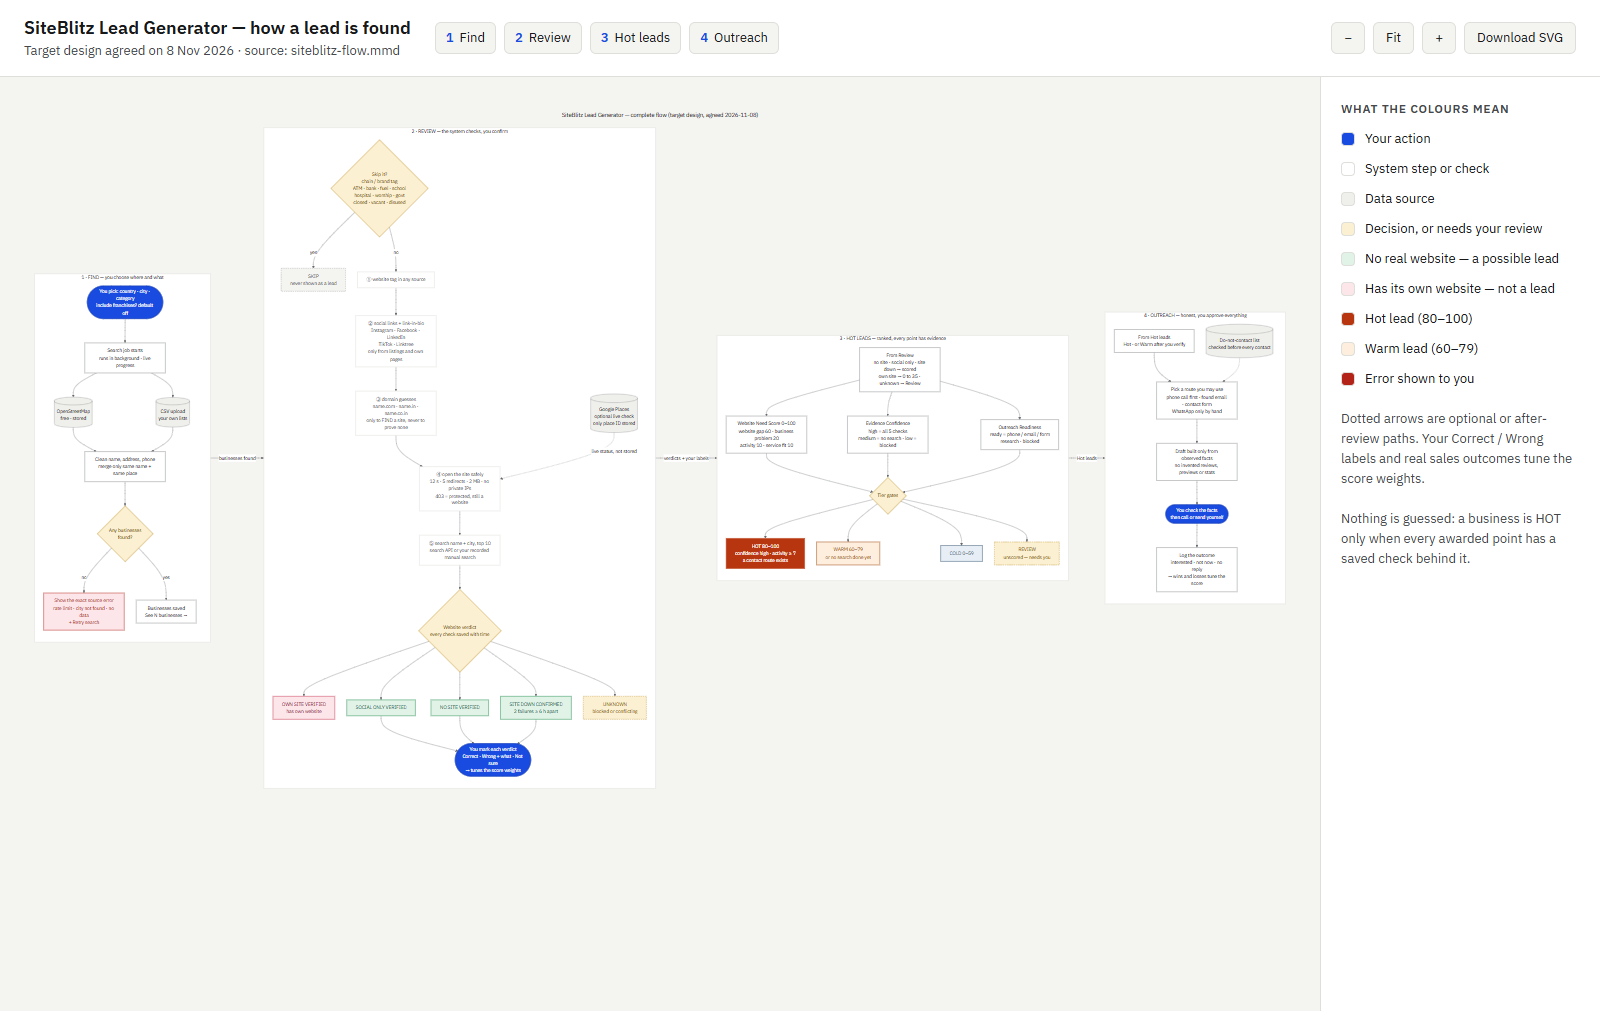
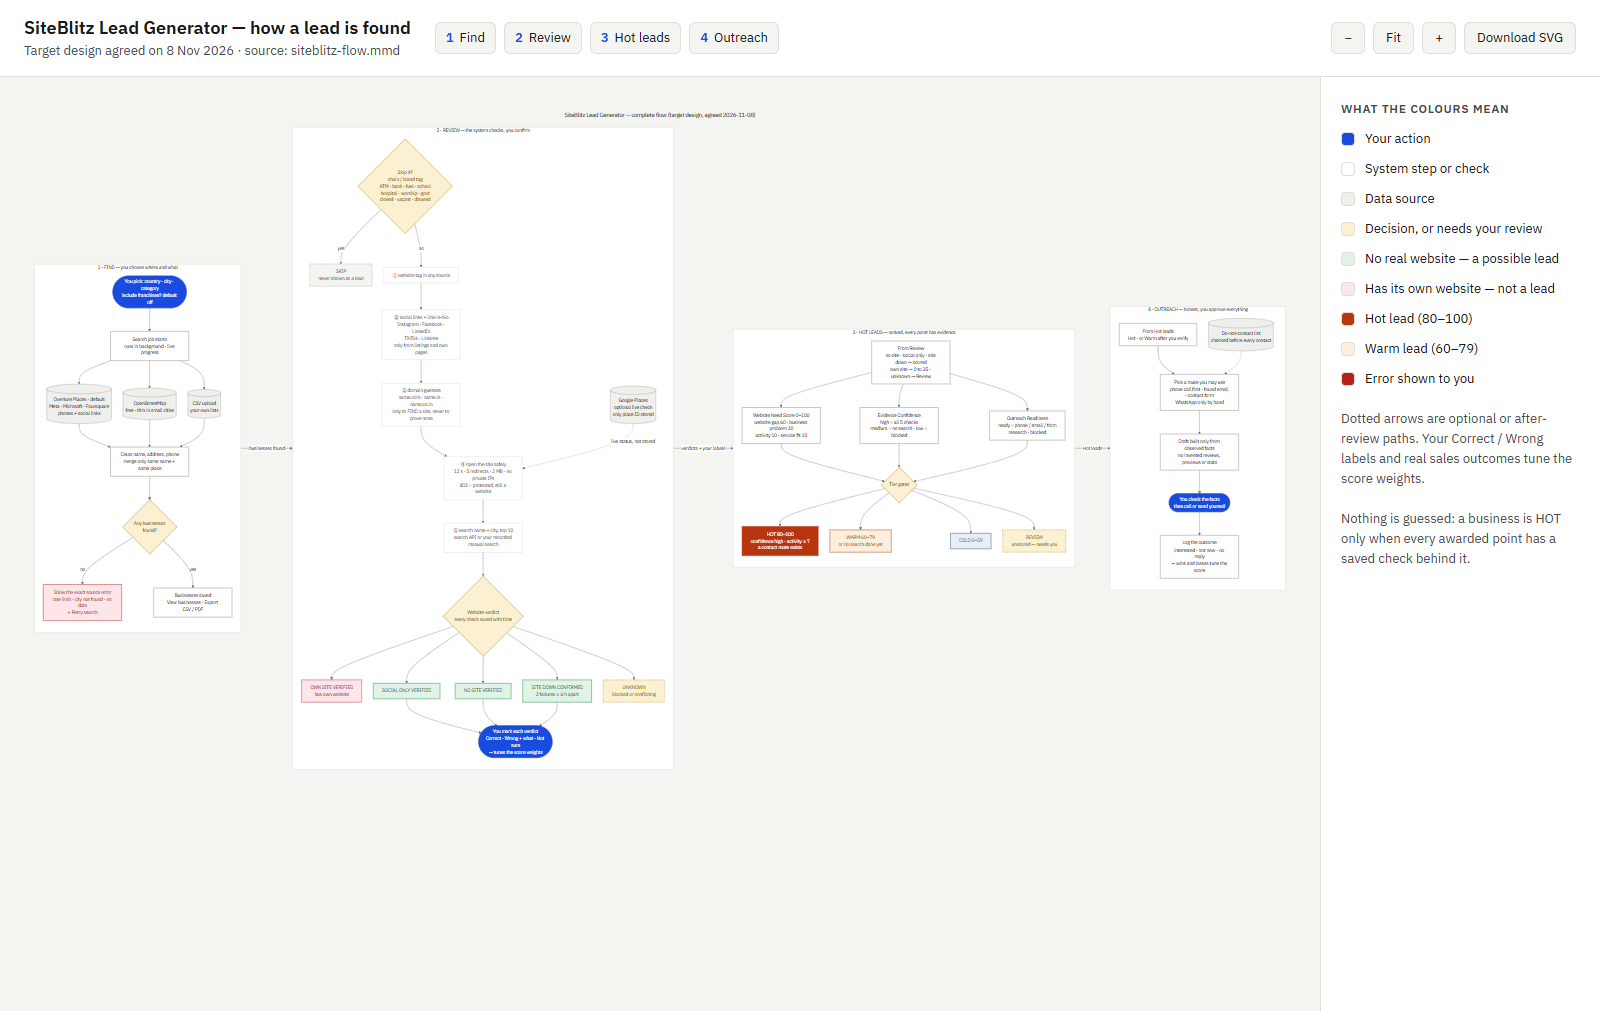
docs: user guide (order of steps, job terms, why 29, exports), flow with Overture + export, phase board, decisions, handoff

diff --git a/docs/flow/index.html b/docs/flow/index.html
@@ -128,15 +128,16 @@ flowchart LR
     direction TB
     F1(["You pick: country · city · category<br/>include franchises? default off"]):::step
     F2["Search job starts<br/>runs in background · live progress"]:::proc
-    SRC_OSM[("OpenStreetMap<br/>free · stored")]:::source
+    SRC_OV[("Overture Places · default<br/>Meta · Microsoft · Foursquare<br/>phones + social links")]:::source
+    SRC_OSM[("OpenStreetMap<br/>free · thin in small cities")]:::source
     SRC_CSV[("CSV upload<br/>your own lists")]:::source
     F3["Clean name, address, phone<br/>merge only same name + same place"]:::proc
     F4{"Any businesses<br/>found?"}:::decision
     F5["Show the exact source error<br/>rate limit · city not found · no data<br/>+ Retry search"]:::error
-    F6["Businesses saved<br/>See N businesses →"]:::proc
+    F6["Businesses saved<br/>View businesses · Export CSV / PDF"]:::proc
     F1 --> F2
-    F2 --> SRC_OSM & SRC_CSV
-    SRC_OSM & SRC_CSV --> F3 --> F4
+    F2 --> SRC_OV & SRC_OSM & SRC_CSV
+    SRC_OV & SRC_OSM & SRC_CSV --> F3 --> F4
     F4 -- "no" --> F5
     F4 -- "yes" --> F6
   end

diff --git a/docs/HANDOFF.md b/docs/HANDOFF.md
@@ -1,53 +1,50 @@
-# HANDOFF — SiteBlitz Lead Generator — Phase 1 (pipeline repair) + audit
+# HANDOFF — SiteBlitz Lead Generator — Phases 1, 1b–1e
 
-Session date: 2026-11-08 · Branch: `phase-01-pipeline-repair` (from `main` @ 2705aca)
+Session date: 2026-11-08 · Branch: `phase-01-pipeline-repair` (from `main` @ 2705aca) · **not pushed**
 
-## Done
-- Full audit of every file, verified by running the code: `docs/AUDIT-2026-11-08.md`.
-- ChatGPT review round (2 rounds, all agenda points agreed/rejected):
-  `docs/debate/2026-11-08-lead-generator-audit-website-need-logic-ui-flow/RESULT.md`.
-- Phase 1 fixes, all acceptance boxes in `docs/spec/phase-01-pipeline-repair.md` verified:
-  - `pip install -e ".[dev]"` exits 0 in a fresh venv; app imports.
-  - Live OSM discovery works again (Pune restaurants 20 new, Hyderabad dentists 16 new,
-    Munich cafes 20 new; through the old UI: Nagpur dentists 36 new, card = API numbers).
-  - CSV: each file imports its own rows; re-import = duplicates.
-  - Qualify (was HTTP 500) and Enroll (would crash) work; enrol twice = 0 the second time.
-  - `GET /api/v1/qualification/unsubscribe` works (was 405).
-  - 138/138 tests pass (136 old + 2 new real-API integration tests).
-- Complete target flow diagram: `docs/flow/siteblitz-flow.mmd` (+ viewer `docs/flow/index.html`).
-- Spec drafts waiting for approval: `docs/spec/website-intelligence.md` (phase 2),
-  `docs/spec/ui-redesign.md` (phase 4).
+## Done (all verified, 185/185 tests)
+- Phase 1 — pipeline repair (install, OSM city search, CSV ids, async crashes, unsubscribe GET).
+- Phase 1b — **Overture Places** source: Udaipur cafés 29 (OSM) → 246 found / 225 new (live, via UI).
+  Location-aware dedup (no more merging same-name shops in different cities). Job cards show the
+  source's error reason and a definitions box.
+- Phase 1c — every request body, query param and CSV upload validated + sanitized (422/400, never 500);
+  `adapter_class` allow-list (blocked arbitrary module import); CSV imports keep up to 5,000 rows
+  (stopped silently at 500); short CSV rows no longer rejected.
+- Phase 1d — SSRF guard on all server-side website fetches incl. redirect hops.
+- Phase 1e — Export CSV / PDF (Businesses header + every job card), "View businesses" per job.
+- Docs: `docs/AUDIT-2026-11-08.md`, `docs/USER-GUIDE.md` (order of steps, every term, why 29, exports),
+  flow `docs/flow/siteblitz-flow.mmd` + viewer `docs/flow/index.html`, ChatGPT review `docs/debate/…/RESULT.md`.
 
-## Files changed
-- `pyproject.toml` — valid build backend; dnspython + aiosqlite core deps; package discovery limited to `backend*`.
-- `backend/app/engines/discovery/osm.py` — User-Agent; city = admin relation inside country → area; QL escaping.
-- `backend/app/engines/discovery/csv_import.py` — external id = hash of identity fields.
-- `backend/app/services/qualification_service.py` — eager-load locations/categories.
-- `backend/app/services/campaign_service.py` — eager-load contact/business; skip already-enrolled leads.
-- `backend/app/api/v1/qualification.py` — GET unsubscribe.
-- `frontend/src/pages/DiscoveryPage.jsx` — result card reads `new/duplicate/errors`.
-- `backend/tests/test_integration/test_pipeline_api.py` — new end-to-end API tests.
+## Files changed (since main)
+- Backend: `pyproject.toml`, `config.py`, `main.py`, `engines/discovery/{osm,overture,csv_import,registry}.py`,
+  `engines/opportunity/resolver.py`, `engines/enrichment/discovery.py`, `services/{discovery,qualification,campaign,export}_service.py`,
+  `schemas/{types,business,source,campaign,qualification,opportunity,contact}.py`, `api/v1/{businesses,discovery,sources,contacts,opportunities,qualification}.py`.
+- Frontend: `services/api.js`, `pages/{DiscoveryPage,BusinessesPage}.jsx`.
+- Tests: `tests/test_integration/test_pipeline_api.py`, `tests/test_discovery/test_overture.py`, `tests/test_opportunity/test_ssrf_guard.py`.
 
 ## Decisions made this session
-- See `docs/DECISIONS.md` (2026-11-08 block).
+- See `docs/DECISIONS.md` (two 2026-11-08 blocks).
 
 ## Known broken / deliberately skipped
-- Website-need logic still the old one (false HOT leads) — phase 2, waits for `go` on its spec.
-- Fabricated `info@domain` contacts, fake pitch claims, fake sender, fake SENT — phase 5.
-- Discovery still runs inside the HTTP request; Overpass public endpoint sometimes rate-limits
-  (job #2 in today's screenshots = PARTIAL, 1 error) — phase 3 adds retries/background jobs.
-- UI not redesigned yet — phase 4, waits for `go` on `docs/spec/ui-redesign.md`.
-- **Branch NOT pushed.** `git push -u origin phase-01-pipeline-repair` was blocked by the Claude OS guard hook
-  (its own check `git log … --not --remotes=origin` failed). Run the push yourself, then open a PR into `main`
-  on https://github.com/Dev-Nurul08/Siteblitz_LeadGenerator.
-- Debate driver files (`SESSION.md`, `tab.json`, `shots/`, `stop-awake`) are left untracked on purpose
-  (ChatGPT account screenshots and driver state).
+- **UI not redesigned.** Revised award-level, motion-led spec waits for `go`: `docs/spec/ui-redesign.md`.
+- Website-need logic is still the old one (false HOT leads) — phase 2, waits for `go` on `docs/spec/website-intelligence.md`.
+- Fabricated `info@` contacts / pitch claims / fake SENT — phase 5.
+- **The API has no authentication**; `docker-compose.yml` publishes port 8000 on all interfaces. Keep it on
+  127.0.0.1 until an auth phase exists.
+- Discovery still runs inside the HTTP request (Overture ≈ 20 s, OSM up to 90 s) — phase 3.
+- Overture release folder is pinned (`OVERTURE_RELEASE=2026-10-21.0`); when Overture deletes it, reads fail
+  with a message telling you to update it.
+- `npx oxlint` cannot run on this PC (native binding missing); `npm run build` passes.
+- Screenshots with real business contacts (`docs/screenshots/phase-1b/`) and debate driver files are untracked on purpose.
+- **Push blocked earlier by the Claude OS guard hook** — run `git push -u origin phase-01-pipeline-repair` yourself,
+  then open a PR into `main` on https://github.com/Dev-Nurul08/Siteblitz_LeadGenerator.
 
 ## Next session starts here
-- Phase 2: Website Intelligence Engine, exactly as `docs/spec/website-intelligence.md` (after `go`).
+- Phase 4b (UI-1: tokens + shell + Find with the live map) after `go` on `docs/spec/ui-redesign.md`,
+  or Phase 2 after `go` on `docs/spec/website-intelligence.md`.
 - First commands (PowerShell, repo root):
-  `python -m venv .venv` · `.venv\Scripts\python -m pip install -e ".[dev]"` ·
-  (this PC only, Smart App Control) `$env:DISABLE_SQLALCHEMY_CEXT="1"; .venv\Scripts\python -m pip install --force-reinstall --no-deps --no-binary sqlalchemy sqlalchemy` ·
-  `.venv\Scripts\python -m pytest -q`
-- Run locally without Postgres: `$env:DATABASE_URL="sqlite+aiosqlite:///./dev.db"; .venv\Scripts\python -m uvicorn backend.app.main:app --port 8000`, then `cd frontend; npm install; npm run dev` → http://localhost:5173
-- Watch out for: Overpass rate limits when running several searches back to back (wait ~60 s).
+  `.venv\Scripts\python -m pip install -e ".[dev]"` ·
+  (this PC only) `$env:DISABLE_SQLALCHEMY_CEXT="1"; .venv\Scripts\python -m pip install --force-reinstall --no-deps --no-binary sqlalchemy sqlalchemy` ·
+  `.venv\Scripts\python -m pytest -q` (expect 185 passed)
+- Run: see `docs/USER-GUIDE.md` §0.
+- Watch out for: Overpass and Nominatim rate limits when running many searches back to back.

diff --git a/docs/USER-GUIDE.md b/docs/USER-GUIDE.md
@@ -1,0 +1,75 @@
+# SiteBlitz Lead Generator — how to use it (current version, 2026-11-08)
+
+Written for: the founder / sales operator. This describes the app **as it works today** (old
+screens, repaired backend). The redesigned 4-step screens are specified in `docs/spec/ui-redesign.md`.
+
+## 0. Start it
+```powershell
+# backend (repo root)
+$env:DATABASE_URL = "sqlite+aiosqlite:///./dev.db"
+.venv\Scripts\python -m uvicorn backend.app.main:app --port 8000
+# frontend (second terminal)
+cd frontend; npm run dev        # open http://localhost:5173
+```
+
+## 1. The order to work in
+| Step | Screen (sidebar) | What you do | What you get |
+|---|---|---|---|
+| 1 | **Run Discovery** | Pick a source (use **Overture Places**), country, city, category, max results → Start | A *job* with Found / New / Dup / Errors |
+| 2 | Run Discovery → job card → **View businesses** | Look at what that job found | The Businesses list filtered to that job |
+| 3 | **Businesses** → **Export CSV / Export PDF** | Download what the filters show (or use the job card buttons) | `siteblitz-businesses-job9-….csv/.pdf` |
+| 4 | **Businesses** → click a row → Run audit (or **Opportunities** → batch) | Website check of each business | Website status + opportunities ⚠ see note |
+| 5 | **Contacts** | Find email contacts | ⚠ see note |
+| 6 | **Compliance & Leads** | Qualify | Lead score + draft pitch ⚠ see note |
+| 7 | **Campaigns & CRM** | Enrol, "dispatch" | ⚠ nothing is really sent |
+
+⚠ Steps 4–7 still run the **old logic** that the audit found unreliable (any business without a
+website field becomes "CRITICAL", invented `info@` contacts, fabricated pitch claims, simulated
+sending). They are rebuilt in phases 2 and 5 (`docs/PHASES.md`). Until then, use steps 1–3 to get
+lists, and judge websites yourself.
+
+## 2. What every word on a discovery job means
+| Word | Meaning |
+|---|---|
+| **Job** | One search: one source, one city/area, one category. Each click on Start = one job. |
+| **Found** | Businesses the source returned for that search. |
+| **New** | Saved for the first time. These are added to Businesses. |
+| **Dup** (duplicate) | Already saved before — the same source record, or the same name in the same city / within 5 km (from any source). Not added again, but linked to the job, so "View businesses" still shows them. |
+| **Errors** | Problems the source reported (rate limit, city not found, area too large…). The reason is shown in red on the job. |
+| **Completed** | Finished with no errors. |
+| **Partial** | Finished, but the source reported an error (often 0 results + the reason). |
+| **Failed** | The job crashed; the error text is on the card. |
+
+Website status (Businesses list):
+| Value | Meaning |
+|---|---|
+| `UNKNOWN` | No website link in the source data yet — **not** proof that there is no website. |
+| `SOCIAL_ONLY` | Only social links (Facebook / Instagram / WhatsApp / Linktree …) were found. |
+| `FOUND` | A website link exists (not yet checked). After an audit it may become `BROKEN` / `UNDER_CONSTRUCTION`. |
+| `NOT_FOUND` | Audit could not find the site (404/410). |
+
+## 3. Which source to use
+| Source | Use for | Data you get | Limits |
+|---|---|---|---|
+| **Overture Places** (default) | Any city | name, address, phone (83 % of places in the Udaipur test), website, Facebook/Instagram links, email sometimes | Needs a city name or coordinates; ~20 s per search; data from Meta/Microsoft/Foursquare, some categories are noisy |
+| OpenStreetMap | Cross-check, free map data | name, address, few phones (3.8 % in Udaipur) | Volunteer-mapped: small cities have few businesses |
+| CSV import | Your own lists | whatever columns you have (name required) | UTF-8 CSV, max 15 MB / 5,000 rows per file |
+
+## 4. Why OpenStreetMap gave "29" (analysis 2026-11-08)
+Your job #8 searched **cafe** in **Udaipur** on OpenStreetMap and returned 29. A direct check of the
+OpenStreetMap database shows that is *all* it has: 35 `amenity=cafe` objects in every area named
+Udaipur, 29 of them with a name (unnamed ones are skipped). Nothing was lost by the tool. The same
+search on Overture Places finds **246** cafés (job #9: 225 new + 21 already known); Overture has
+14,807 places in Udaipur, 12,919 with a social link and 7,718 with a social link but **no website**.
+Other things fixed on the way: same-name shops in different cities were merged into one; CSV
+imports stopped silently at 500 rows; CSV rows with missing trailing columns were rejected.
+
+## 5. Exports
+- CSV: every column (id, name, category, industry, address, city, state, postal code, country,
+  phone, email, website, website status, facebook, instagram, linkedin, tiktok, youtube, twitter,
+  whatsapp, linktree, latitude, longitude, status, discovered at). Opens in Excel with Indian
+  characters intact. Cells that start with `= + - @` get a leading `'` so Excel cannot run them as
+  formulas (phone numbers therefore show as text — correct).
+- PDF: landscape A4 summary (name, category, city, phone, email, website/social, status).
+- The export always matches the current filters (country, website status, category, search, job).
+- Exported files contain businesses' contact data — keep them private.

diff --git a/docs/PHASES.md b/docs/PHASES.md
@@ -5,7 +5,11 @@ Legend: ✅ done · 🔨 in progress · ⛔ blocked · ⬜ not started · 🔒 w
 | # | Phase | Status | Owner session | Depends on | Demo criterion |
 |---|-------|--------|---------------|------------|----------------|
 | 1 | Pipeline repair (install, OSM city search, CSV ids, async crashes, unsubscribe GET) | ✅ | 2026-11-08 audit session | — | `docs/spec/phase-01-pipeline-repair.md` all boxes; 138/138 tests; live Pune/Hyderabad/Munich discovery returns businesses |
-| 2 | Website Intelligence Engine (verdicts, evidence table, SKIP rules, need score, tiers) | 🔒 | — | 1 | `docs/spec/website-intelligence.md` acceptance list |
+| 1b | Overture Places source (lifts the 29-row OSM ceiling), location-aware dedup, job error reasons + definitions | ✅ | 2026-11-08 session, 2nd request | 1 | Udaipur cafés: OSM 29 → Overture 246 found / 225 new; 146 tests |
+| 1c | Validate + sanitize every request body, query param and CSV upload; adapter import allow-list | ✅ | same | 1 | 29 new 422/400 tests; 175 tests |
+| 1d | SSRF guard on every server-side website fetch (incl. redirects) | ✅ | same | 1 | internal/metadata addresses blocked; 183 tests |
+| 1e | Export CSV / PDF (filters + per job), "View businesses" per job | ✅ | same | 1 | CSV + PDF downloaded through the UI for job #9; 185 tests |
+| 2 | Website Intelligence Engine (verdicts, evidence table, SKIP rules — use Overture `brand` too —, need score, tiers) | 🔒 | — | 1 | `docs/spec/website-intelligence.md` acceptance list |
 | 3 | Background jobs + SSRF guard + Alembic for all tables + SQLite WAL default | ⬜ | — | 1 | Start a discovery, restart the API mid-run, job resumes with no duplicate businesses |
 | 4a | UI contract: `docs/contracts/ui-api.md` (verdicts, checks, labels, tiers, 3 indicators in the API) | ⬜ | — | 2 | Every field the new screens read exists in an API response |
 | 4b | UI-1: design tokens + app shell/stepper + Find screen (taste skill) | 🔒 | — | 3, 4a | `docs/spec/ui-redesign.md` criteria for Find + shell, 5 states screenshotted |
@@ -18,7 +22,7 @@ Legend: ✅ done · 🔨 in progress · ⛔ blocked · ⬜ not started · 🔒 w
 | 9 | Later: moment-of-need triggers, evidence-based micro-proposals, outcome learning | ⬜ | — | 6 | Defined after pilot results |
 
 ## Now
-Phase 1 — done on branch `phase-01-pipeline-repair` (2026-11-08).
+Phases 1, 1b–1e — done on branch `phase-01-pipeline-repair` (2026-11-08). UI redesign spec revised for an award-level, motion-led direction — waiting for `go`.
 
 ## Next 3
 Phase 2 (needs `go` on `docs/spec/website-intelligence.md`), Phase 3, Phase 4a → 4b (needs `go` on `docs/spec/ui-redesign.md`).

diff --git a/docs/DECISIONS.md b/docs/DECISIONS.md
@@ -23,3 +23,17 @@
 - **Phase-1 bug fixes were built before spec approval** because the founder's request explicitly
   authorised fixing broken APIs and the fixes add no new values — they restore what the code already
   promised. Website-need logic and UI redesign wait for spec-lock approval.
+
+## 2026-11-08 — second request (why 29, validation, export)
+- **Overture Maps Places is the default discovery source.** Why: OSM's Udaipur data really has only 29 named
+  cafés; Overture (CDLA-Permissive-2.0 / Apache-2.0, Meta + Microsoft + Foursquare) has 246, with phones for
+  83 % of places and social links for 87 %. Read with DuckDB from the public S3 GeoParquet by city bounding box
+  (one Nominatim lookup per job). Release folder pinned in `OVERTURE_RELEASE` (update monthly).
+- **Two records are merged only at "same city" or "within 5 km" confidence (≥ 0.70)**, not "same name in the
+  same country" (0.60). Why: different shops with common names were being lost.
+- **Every input limit comes from the DB column size or an existing rule** (ISO alpha-2, verifier email regex);
+  free-form `query_params` are an allow-list (`min_confidence`); `adapter_class` is an allow-list. Why: no
+  invented numbers; arbitrary module import was possible through POST /sources.
+- **CSV upload cap 15 MB** = 5,000 rows (existing max_results limit) × ~3 KB max row at DB column sizes.
+- **Exports:** CSV = all stored columns, formula-prefixed cells neutralised (OWASP CSV injection); PDF via
+  fpdf2 (pure Python). Exports with real business contacts are not committed to git.
